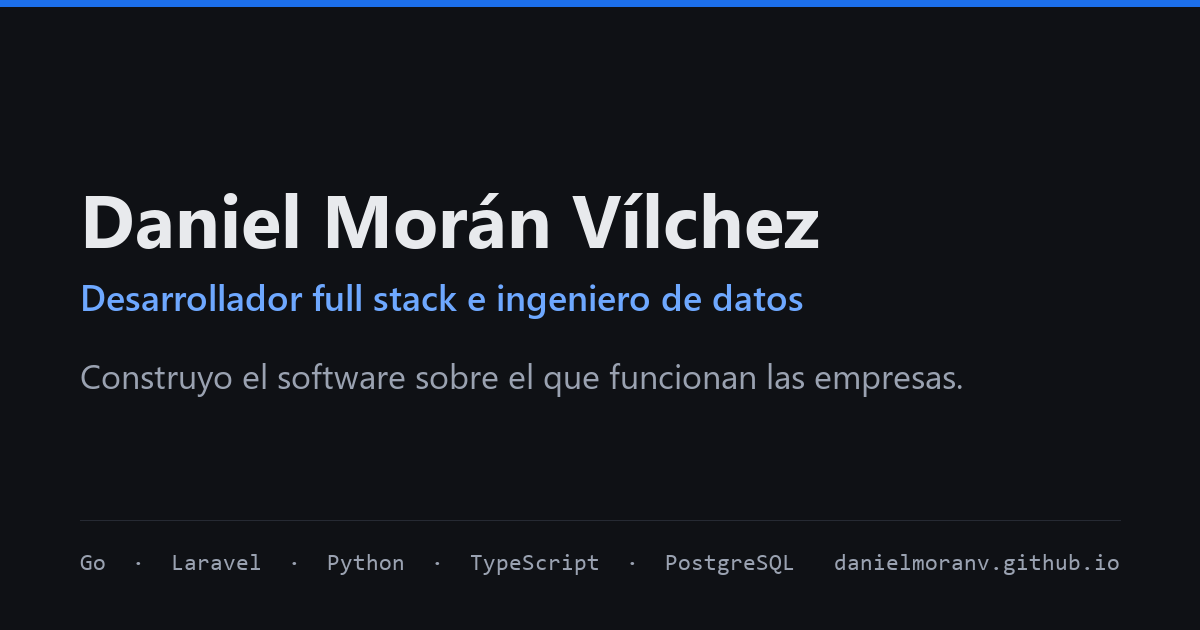
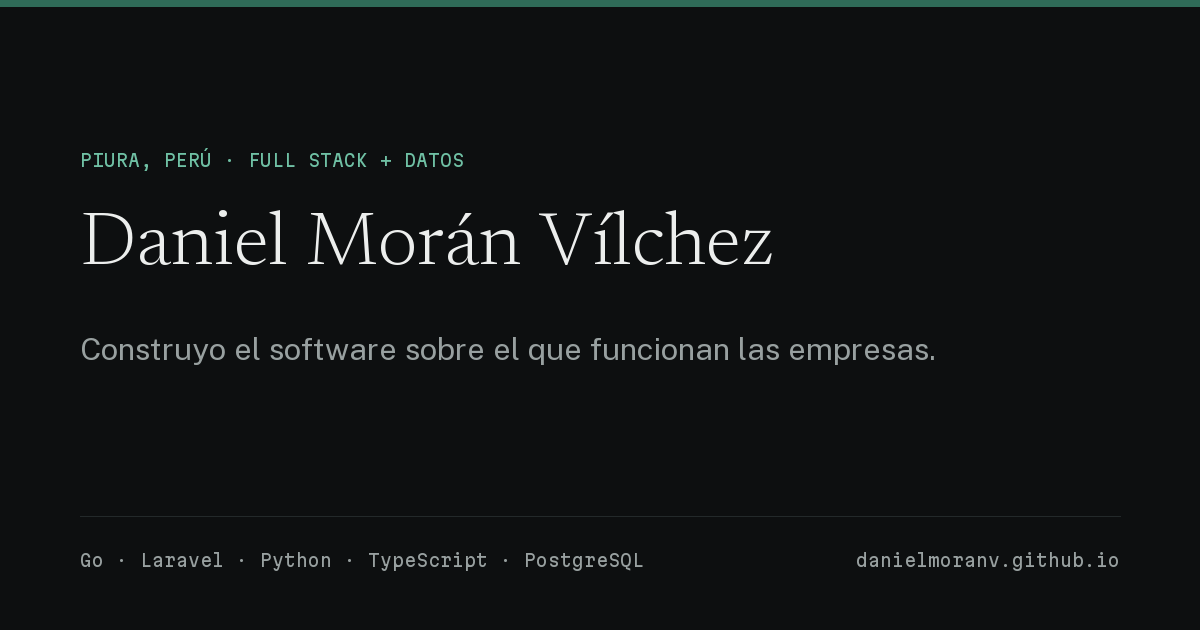
Tarjetas de enlace para los tres productos, y las del perfil al dia
DOS PROBLEMAS, UNA CAUSA. almazenapp, mozaicopro y easypay no tienen ninguna
etiqueta og:, asi que compartir sus enlaces da un rectangulo gris en LinkedIn,
WhatsApp, Slack y el resto. LinkedIn llego a rechazar dos de los tres con
«Introduce un enlace valido» y solo los acepto al reintentar. Medido: los tres
responden en ~0,6 s, o sea que no era lentitud, era que no habia nada que leer.

Y las tarjetas del PERFIL se habian quedado en el diseno viejo —azul #1c6feb y
Segoe UI— cuando el sitio ya es verde y Newsreader. Una tarjeta que no se
parece al sitio al que lleva es peor que no tener tarjeta.

gen-og.py se reescribe para arreglar las dos cosas a la vez:

- Paleta y tipografia ACTUALES en todas: Newsreader para el titulo, Martian
  Mono para sello y pie, acento verde. Los TTF se descargan y se cachean fuera
  del repositorio, porque Pillow no lee woff2.
- Una tarjeta por producto, con la misma reticula que la del perfil: puestas
  juntas se ven como una familia.
- El favicon pasa del azul viejo al verde del sitio.

LAS IMAGENES SE SIRVEN DESDE ESTE SITIO, no desde cada producto. Ya es
estatico, publico y con despliegue automatico, asi que cada aplicacion solo
tiene que anadir texto: cero assets, cero cambios de build, cero riesgo.
Alojar la imagen en otro dominio es practica normal y ningun rastreador lo
penaliza.

docs/OG-PRODUCTOS.md lleva el bloque exacto que hay que pegar en cada uno,
adaptado a su stack —Blade para AlmaZen, index.html para las dos SPA— con el
[…]

diff --git a/scripts/gen-og.py b/scripts/gen-og.py
@@ -1,91 +1,162 @@
 # -*- coding: utf-8 -*-
 """
-Genera los recursos de imagen del perfil tecnico.
+Genera las tarjetas Open Graph y los iconos.
 
-Se ejecuta UNA VEZ y sus salidas se commitean en public/. No es parte del
-build: un PNG estatico que no cambia no merece una dependencia de build.
+    python scripts/gen-og.py
 
-Paleta: la del sitio en oscuro (src/styles/global.css), para que la tarjeta
-que se ve al compartir el enlace sea reconociblemente el mismo sitio.
+Se ejecuta a mano y sus salidas se commitean en public/: un PNG que no cambia
+no merece una dependencia de build.
+
+QUE PRODUCE
+- public/og.png y og-es.png       -> el perfil, una por idioma
+- public/og/<producto>.png        -> una por producto propio
+- public/favicon.svg, apple-touch-icon.png
+
+POR QUE LOS PRODUCTOS TAMBIEN. almazenapp, mozaicopro y easypay no tienen
+ninguna etiqueta og:, asi que compartir sus enlaces —en LinkedIn, WhatsApp,
+Slack o un correo— da una tarjeta vacia. Las imagenes se sirven desde este
+sitio, que ya es estatico y publico, para que cada producto solo tenga que
+anadir cuatro lineas de <meta> y ningun despliegue de assets.
+
+TIPOGRAFIA. Las mismas familias que el sitio, descargadas en TTF porque
+Pillow no lee woff2. Se cachean fuera del repositorio: son un detalle de
+generacion, no una dependencia del sitio.
 """
-from PIL import Image, ImageDraw, ImageFont
+import re
+import urllib.request
 from pathlib import Path
 
-SALIDA = Path(r"C:\Code\perfil-tecnico\public")
-SALIDA.mkdir(parents=True, exist_ok=True)
+from PIL import Image, ImageDraw, ImageFont
 
-FONDO = "#0f1115"
-TEXTO = "#e8eaed"
-SUAVE = "#9aa2b1"
-ENLACE = "#6ea8ff"
-BORDE = "#262a33"
-ACENTO_SOLIDO = "#1c6feb"
+RAIZ = Path(__file__).resolve().parent.parent
+SALIDA = RAIZ / "public"
+(SALIDA / "og").mkdir(parents=True, exist_ok=True)
+CACHE = Path.home() / ".cache" / "djasoft-fuentes-ttf"
+CACHE.mkdir(parents=True, exist_ok=True)
 
-F = r"C:\Windows\Fonts"
-BOLD = f"{F}\\segoeuib.ttf"
-SEMI = f"{F}\\seguisb.ttf"
-REG = f"{F}\\segoeui.ttf"
-MONO = f"{F}\\consola.ttf"
-
-
-def fuente(ruta, tam):
-    try:
-        return ImageFont.truetype(ruta, tam)
-    except OSError:
-        return ImageFont.truetype(REG, tam)
+# Paleta oscura ACTUAL del sitio (src/styles/global.css). La version anterior
+# de este script llevaba la paleta azul del diseno viejo: una tarjeta que no
+# se parece al sitio al que lleva es peor que no tener tarjeta.
+FONDO = "#0d0f10"
+TEXTO = "#eceeed"
+SUAVE = "#98a0a0"
+ACENTO = "#6fc0a4"
+BORDE = "#23292a"
+ACENTO_SOLIDO = "#2f6b58"
 
 
-def tarjeta(destino, rol, lema, stack):
-    """Tarjeta Open Graph, 1200x630 (la proporcion que piden LinkedIn y X)."""
+def ttf(familia, peso):
+    """Descarga (y cachea) el TTF de una familia. Pillow no lee woff2."""
+    destino = CACHE / f"{familia.replace(' ', '-').lower()}-{peso}.ttf"
+    if not destino.exists():
+        url = f"https://fonts.googleapis.com/css2?family={familia.replace(' ', '+')}:wght@{peso}"
+        # Sin User-Agent moderno, Google devuelve TTF en vez de woff2.
+        css = urllib.request.urlopen(url, timeout=60).read().decode()
+        enlace = re.search(r"url\((https://[^)]+\.ttf)\)", css).group(1)
+        destino.write_bytes(urllib.request.urlopen(enlace, timeout=60).read())
+    return destino
+
+
+SERIF = ttf("Newsreader", 300)
+SERIF_M = ttf("Newsreader", 400)
+SANS = ttf("Public Sans", 400)
+MONO = ttf("Martian Mono", 400)
+
+
+def f(ruta, tam):
+    return ImageFont.truetype(str(ruta), tam)
+
+
+def tarjeta(destino, sello, titulo, lema, stack, url, serif_titulo=SERIF, tam=76):
+    """
+    Tarjeta Open Graph, 1200x630 — la proporcion que piden LinkedIn y X.
+
+    Misma reticula en todas: filo de acento arriba, sello en mono, titulo en
+    serif, lema, y el pie con stack a la izquierda y dominio a la derecha.
+    Puestas juntas se ven como una familia, que es el punto.
+    """
     img = Image.new("RGB", (1200, 630), FONDO)
     d = ImageDraw.Draw(img)
 
-    # Filo superior de acento: identifica la tarjeta de un vistazo.
     d.rectangle([0, 0, 1200, 6], fill=ACENTO_SOLIDO)
-    # Linea del pie, del mismo gris que los bordes del sitio.
-    d.line([80, 520, 1120, 520], fill=BORDE, width=1)
+    d.line([80, 516, 1120, 516], fill=BORDE, width=1)
 
-    d.text((80, 168), "Daniel Morán Vílchez", font=fuente(BOLD, 74), fill=TEXTO)
-    d.text((80, 272), rol, font=fuente(SEMI, 36), fill=ENLACE)
-    d.text((80, 352), lema, font=fuente(REG, 34), fill=SUAVE)
+    d.text((80, 150), sello.upper(), font=f(MONO, 17), fill=ACENTO)
+    d.text((80, 208), titulo, font=f(serif_titulo, tam), fill=TEXTO)
+    d.text((80, 330), lema, font=f(SANS, 31), fill=SUAVE)
 
-    d.text((80, 552), stack, font=fuente(MONO, 23), fill=SUAVE)
-    url = "danielmoranv.github.io"
-    ancho = d.textlength(url, font=fuente(MONO, 23))
-    d.text((1120 - ancho, 552), url, font=fuente(MONO, 23), fill=SUAVE)
+    d.text((80, 550), stack, font=f(MONO, 17), fill=SUAVE)
+    ancho = d.textlength(url, font=f(MONO, 17))
+    d.text((1120 - ancho, 550), url, font=f(MONO, 17), fill=SUAVE)
 
     img.save(destino, "PNG", optimize=True)
-    print(f"  {destino.name}  {destino.stat().st_size // 1024} KB")
+    print(f"  {destino.relative_to(SALIDA)!s:26s} {destino.stat().st_size // 1024:3d} KB")
 
 
-STACK = "Go  ·  Laravel  ·  Python  ·  TypeScript  ·  PostgreSQL"
-
-print("Tarjetas Open Graph:")
+print("Perfil:")
 tarjeta(
     SALIDA / "og.png",
-    "Full Stack Developer & Data Engineer",
+    "Piura, Peru · full stack + data",
+    "Daniel Morán Vílchez",
     "I build the software companies run on.",
-    STACK,
+    "Go · Laravel · Python · TypeScript · PostgreSQL",
+    "danielmoranv.github.io",
 )
 tarjeta(
     SALIDA / "og-es.png",
-    "Desarrollador full stack e ingeniero de datos",
+    "Piura, Perú · full stack + datos",
+    "Daniel Morán Vílchez",
     "Construyo el software sobre el que funcionan las empresas.",
-    STACK,
+    "Go · Laravel · Python · TypeScript · PostgreSQL",
+    "danielmoranv.github.io",
 )
 
-# Icono tactil de iOS: PNG opaco de 180x180, sin transparencia (iOS la
-# rellena de negro y el monograma se pierde).
-print("Icono tactil:")
+# El titulo de producto va en serif de 400: a 76 px el peso 300 se afina
+# demasiado en una palabra corta.
+PRODUCTOS = [
+    (
+        "almazen",
+        "ERP multiempresa · facturación SUNAT",
+        "AlmaZen",
+        "Inventario, ventas, POS y facturación electrónica.",
+        "Laravel · Livewire · PostgreSQL · Gemini",
+        "almazenapp.djasoft.net.pe",
+    ),
+    (
+        "mozaico",
+        "Gestión de restaurantes · tiempo real",
+        "MozaicoPro",
+        "Salón y cocina sobre el mismo estado de comanda.",
+        "Go · Gin · PostgreSQL · React 19",
+        "mozaicopro.djasoft.net.pe",
+    ),
+    (
+        "easypay",
+        "Personal, asistencia y planillas",
+        "EasyPay",
+        "Asistencia, horarios y cálculo de planillas.",
+        "TypeScript · NestJS · PostgreSQL",
+        "easypay.djasoft.net.pe",
+    ),
+]
+
+print("Productos:")
+for slug, sello, titulo, lema, stack, url in PRODUCTOS:
+    tarjeta(SALIDA / "og" / f"{slug}.png", sello, titulo, lema, stack, url,
+            serif_titulo=SERIF_M, tam=80)
+
+# Icono tactil de iOS: PNG opaco de 180x180. iOS rellena la transparencia de
+# negro, asi que el fondo va solido.
+print("Iconos:")
 ico = Image.new("RGB", (180, 180), ACENTO_SOLIDO)
 d = ImageDraw.Draw(ico)
-f = fuente(BOLD, 112)
-caja = d.textbbox((0, 0), "D", font=f)
+fuente = f(SERIF_M, 118)
+caja = d.textbbox((0, 0), "D", font=fuente)
 d.text(
     ((180 - (caja[2] - caja[0])) / 2 - caja[0], (180 - (caja[3] - caja[1])) / 2 - caja[1]),
     "D",
-    font=f,
+    font=fuente,
     fill="#ffffff",
 )
 ico.save(SALIDA / "apple-touch-icon.png", "PNG", optimize=True)
-print(f"  apple-touch-icon.png  {(SALIDA / 'apple-touch-icon.png').stat().st_size // 1024} KB")
+print(f"  {'apple-touch-icon.png':26s} {(SALIDA / 'apple-touch-icon.png').stat().st_size // 1024:3d} KB")

diff --git a/docs/OG-PRODUCTOS.md b/docs/OG-PRODUCTOS.md
@@ -1,0 +1,154 @@
+# Tarjetas de enlace para los productos
+
+Qué hay que pegar en cada producto para que compartir su URL deje de dar una
+tarjeta vacía. Las imágenes ya están generadas y publicadas; **solo faltan las
+etiquetas `<meta>` en cada aplicación.**
+
+Última actualización: **16 de agosto de 2026**.
+
+---
+
+## El problema, medido
+
+| Producto | HTML | `<title>` | `description` | Etiquetas `og:` |
+|---|---|---|---|---|
+| `almazenapp.djasoft.net.pe` | 56 KB, servido | ✅ | ✅ | ❌ |
+| `mozaicopro.djasoft.net.pe` | 1,2 KB (SPA) | ✅ | ❌ | ❌ |
+| `easypay.djasoft.net.pe` | 1,1 KB (SPA) | ✅ | ❌ | ❌ |
+
+Sin `og:`, el enlace se ve como un rectángulo gris **en todas partes**: LinkedIn,
+WhatsApp, Slack, Telegram, X, Discord y las vistas previas de Gmail. LinkedIn
+llegó a rechazar dos de los tres con *«Introduce un enlace válido»* al primer
+intento, y solo los aceptó al reintentar.
+
+Los tres responden en ~0,6 s, así que **no era lentitud**: era que no había nada
+que leer.
+
+---
+
+## Las imágenes ya están listas
+
+Generadas por [`scripts/gen-og.py`](../scripts/gen-og.py) con la tipografía y la
+paleta del sitio, y servidas desde aquí:
+
+| Producto | Imagen |
+|---|---|
+| AlmaZen | `https://danielmoranv.github.io/og/almazen.png` |
+| MozaicoPro | `https://danielmoranv.github.io/og/mozaico.png` |
+| EasyPay | `https://danielmoranv.github.io/og/easypay.png` |
+
+**Por qué se sirven desde el portafolio y no desde cada producto:** este sitio ya
+es estático, público y con despliegue automático, así que cada aplicación solo
+necesita añadir texto —cero assets, cero cambios de build, cero riesgo—. Alojar
+una imagen en un dominio distinto al de la página es práctica normal; ningún
+rastreador lo penaliza.
+
+Si más adelante quieres que cada producto sirva la suya, copia el PNG a su
+carpeta pública y cambia la URL. Nada más.
+
+---
+
+## Qué pegar, producto a producto
+
+Va **dentro de `<head>`**. Las cuatro primeras líneas son las que hacen el
+trabajo; el resto mejora el resultado.
+
+### AlmaZen — Laravel + Livewire
+
+En el layout Blade principal (`resources/views/layouts/app.blade.php` o
+equivalente), dentro de `<head>`:
+
+```blade
+<meta property="og:type" content="website">
+<meta property="og:site_name" content="AlmaZen">
+<meta property="og:title" content="AlmaZen — ERP de inventario, ventas y facturación electrónica SUNAT">
+<meta property="og:description" content="ERP multiempresa para PYMEs de Perú: inventario multi-almacén, punto de venta, cotizaciones, créditos, caja y facturación electrónica SUNAT.">
+<meta property="og:url" content="https://almazenapp.djasoft.net.pe/">
+<meta property="og:image" content="https://danielmoranv.github.io/og/almazen.png">
+<meta property="og:image:width" content="1200">
+<meta property="og:image:height" content="630">
+<meta property="og:image:alt" content="AlmaZen — ERP multiempresa con facturación electrónica SUNAT">
+<meta property="og:locale" content="es_PE">
+<meta name="twitter:card" content="summary_large_image">
+<meta name="twitter:image" content="https://danielmoranv.github.io/og/almazen.png">
+```
+
+AlmaZen ya tiene un `<title>` y una `description` buenos: **no los toques**, solo
+añade lo de arriba.
+
+### MozaicoPro — React + Vite
+
+En `index.html` de la raíz del proyecto (el que Vite usa como plantilla),
+dentro de `<head>`:
+
+```html
+<meta name="description" content="Gestión de restaurantes en tiempo real: salón, cocina y caja sobre el mismo estado de comanda, sincronizados por WebSockets.">
+
+<meta property="og:type" content="website">
+<meta property="og:site_name" content="MozaicoPro">
+<meta property="og:title" content="MozaicoPro — gestión de restaurantes en tiempo real">
+<meta property="og:description" content="Salón, cocina y caja sobre el mismo estado de comanda, sincronizados por WebSockets.">
+<meta property="og:url" content="https://mozaicopro.djasoft.net.pe/">
+<meta property="og:image" content="https://danielmoranv.github.io/og/mozaico.png">
+<meta property="og:image:width" content="1200">
+<meta property="og:image:height" content="630">
+<meta property="og:image:alt" content="MozaicoPro — gestión de restaurantes en tiempo real">
+<meta property="og:locale" content="es_PE">
+<meta name="twitter:card" content="summary_large_image">
+<meta name="twitter:image" content="https://danielmoranv.github.io/og/mozaico.png">
+```
+
+**Ojo con la SPA:** las etiquetas van en el `index.html` **estático**, no
+inyectadas por React al montar. Los rastreadores de LinkedIn y WhatsApp **no
+ejecutan JavaScript**: leen el HTML tal como sale del servidor. Poner esto con
+`react-helmet` no funciona para las vistas previas.
+
+Falta además una `description`, que ahora mismo no tiene ninguna.
+
+### EasyPay — SPA sobre NestJS
+
+En el `index.html` que sirve la aplicación, dentro de `<head>`:
+
+```html
+<meta name="description" content="Gestión de personal y planillas: registro de trabajadores, control de asistencia, horarios y turnos, y liquidación de planilla con sus reportes.">
+
+<meta property="og:type" content="website">
+<meta property="og:site_name" content="EasyPay">
+<meta property="og:title" content="EasyPay — personal, asistencia y planillas">
+<meta property="og:description" content="Asistencia, horarios y cálculo de planillas, con sus reportes.">
+<meta property="og:url" content="https://easypay.djasoft.net.pe/">
+<meta property="og:image" content="https://danielmoranv.github.io/og/easypay.png">
+<meta property="og:image:width" content="1200">
+<meta property="og:image:height" content="630">
+<meta property="og:image:alt" content="EasyPay — personal, asistencia y planillas">
+<meta property="og:locale" content="es_PE">
+<meta name="twitter:card" content="summary_large_image">
+<meta name="twitter:image" content="https://danielmoranv.github.io/og/easypay.png">
+```
+
+Mismo aviso que MozaicoPro: en el HTML estático, no por JavaScript.
+
+---
+
+## Cómo comprobar que funcionó
+
+```sh
+# Debe listar las etiquetas og:. Si sale vacio, no se desplego o va por JS.
+curl -s https://almazenapp.djasoft.net.pe/ | grep -o '<meta property="og:[^>]*>'
+```
+
+Y después, en cada plataforma:
+
+- **LinkedIn** — <https://www.linkedin.com/post-inspector/>. Obligatorio si ya
+  compartiste el enlace antes: LinkedIn **cachea la vista previa** y seguirá
+  enseñando la vieja hasta que fuerces el refresco ahí.
+- **WhatsApp, Slack y X** se refrescan solos en unas horas.
+
+---
+
+## Detalle pendiente de decidir
+
+**`Mozaico` o `MozaicoPro`.** El producto se anuncia como *MozaicoPro*, el
+portafolio y el CV lo llaman *Mozaico*. La tarjeta generada usa **MozaicoPro**,
+que es como se llama a sí mismo. Conviene unificar los tres canales; si el
+nombre bueno es *Mozaico*, se cambia en `scripts/gen-og.py` y se regenera.

diff --git a/docs/ROADMAP.md b/docs/ROADMAP.md
@@ -155,6 +155,9 @@ están tomadas para no volver a discutirlas.
 
 ### P2 — mantenimiento
 
+- [ ] **Pegar las etiquetas `og:` en los tres productos.** Las imágenes ya están generadas y
+      publicadas en `public/og/`; falta el `<meta>` en cada aplicación. Instrucciones exactas
+      por stack en [`OG-PRODUCTOS.md`](OG-PRODUCTOS.md).
 - [ ] **Enriquecer el chatbot** cuando avance. Hoy está descrito de forma deliberadamente
       conservadora porque es reciente: dice qué es y con qué está hecho, sin prometer
       alcance.
@@ -218,6 +221,7 @@ Ficheros que no cambian no justifican una dependencia de build.
 | `src/data/casos.ts` | Notas de ingeniería: el trabajo por su parte difícil |
 | `src/data/estudios.ts` | Los case studies, con sus decisiones y descartes |
 | `src/data/metodo.ts` | Los cinco pasos de «cómo trabajo» |
+| `docs/OG-PRODUCTOS.md` | Las etiquetas `og:` que faltan en los productos |
 | `src/data/trabajo.ts` | Lo que está en producción, con su stack y su enlace vivo |
 | `src/data/trayectoria.ts` | El puesto y los sistemas del sector salud |
 | `src/data/cifras.ts` | Las cuatro cifras de la banda |
